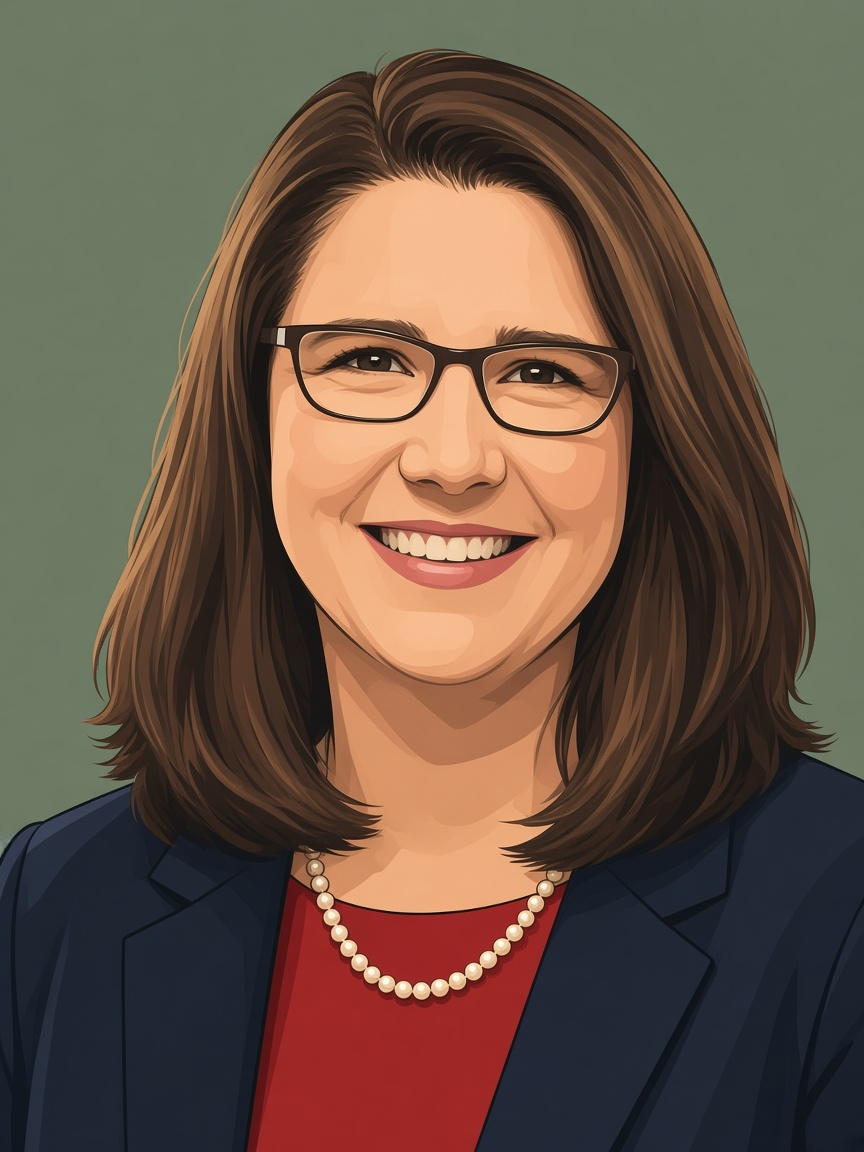
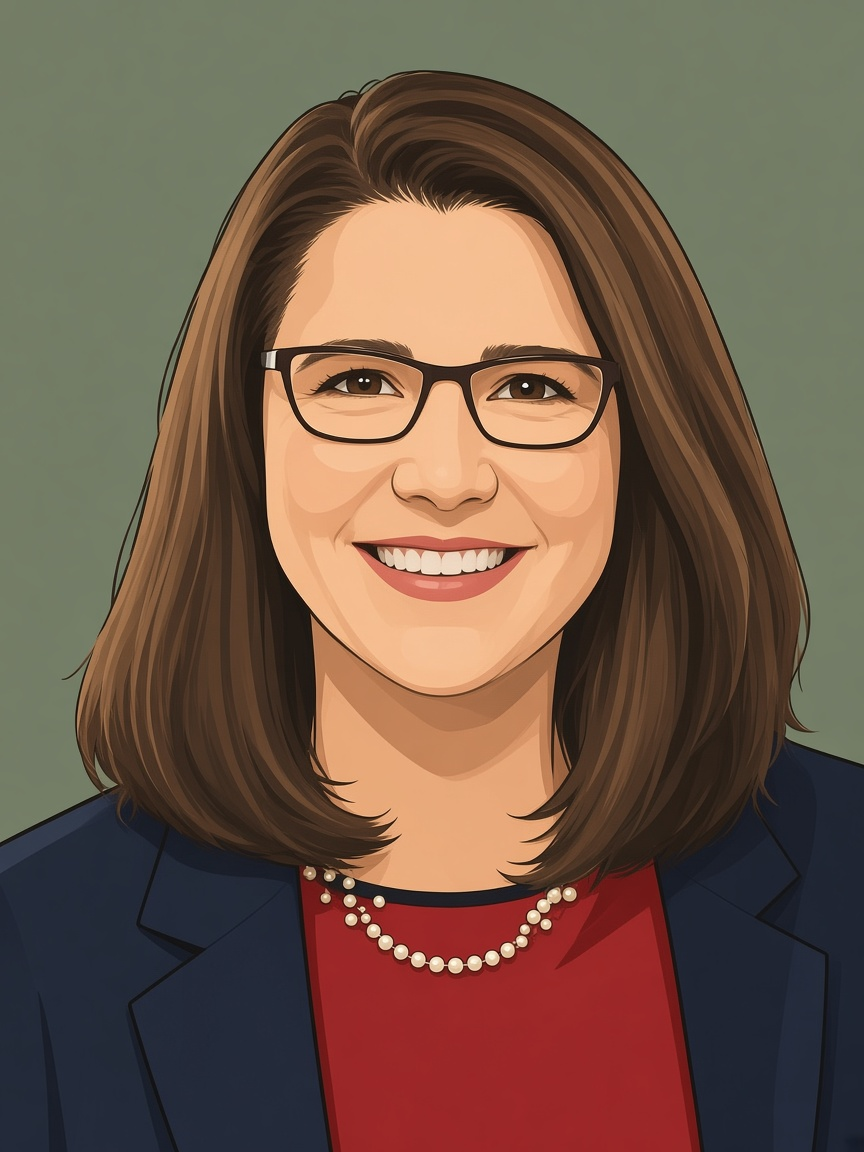
Thin Sarah Kavanagh's portrait lines to match the Roland illustration.

diff --git a/class-onsite.html b/class-onsite.html
@@ -2,7 +2,7 @@
 <html lang="en">
 <head>
   <meta charset="utf-8">
-  <script src="roster-data.js?v=7"></script>
+  <script src="roster-data.js?v=8"></script>
   <script>if(new URLSearchParams(location.search).get("p")&&new URLSearchParams(location.search).get("p")!=="gunther-roland")document.documentElement.classList.add("prof-pending");</script>
   <style>html.prof-pending body{visibility:hidden}</style>
 

diff --git a/class-recorded.html b/class-recorded.html
@@ -2,7 +2,7 @@
 <html lang="en">
 <head>
   <meta charset="utf-8">
-  <script src="roster-data.js?v=7"></script>
+  <script src="roster-data.js?v=8"></script>
   <script>if(new URLSearchParams(location.search).get("p")&&new URLSearchParams(location.search).get("p")!=="gunther-roland")document.documentElement.classList.add("prof-pending");</script>
   <style>html.prof-pending body{visibility:hidden}</style>
 

diff --git a/class.html b/class.html
@@ -2,7 +2,7 @@
 <html lang="en">
 <head>
   <meta charset="utf-8">
-  <script src="roster-data.js?v=7"></script>
+  <script src="roster-data.js?v=8"></script>
   <script>if(new URLSearchParams(location.search).get("p")&&new URLSearchParams(location.search).get("p")!=="gunther-roland")document.documentElement.classList.add("prof-pending");</script>
   <style>html.prof-pending body{visibility:hidden}</style>
 

diff --git a/index.html b/index.html
@@ -2,7 +2,7 @@
 <html lang="en">
 <head>
   <meta charset="utf-8">
-  <script src="roster-data.js?v=7"></script>
+  <script src="roster-data.js?v=8"></script>
   <script>if(new URLSearchParams(location.search).get("p")&&new URLSearchParams(location.search).get("p")!=="gunther-roland")document.documentElement.classList.add("prof-pending");</script>
   <style>html.prof-pending body{visibility:hidden}</style>
 

diff --git a/research.html b/research.html
@@ -2,7 +2,7 @@
 <html lang="en">
 <head>
   <meta charset="utf-8">
-  <script src="roster-data.js?v=7"></script>
+  <script src="roster-data.js?v=8"></script>
   <script>if(new URLSearchParams(location.search).get("p")&&new URLSearchParams(location.search).get("p")!=="gunther-roland")document.documentElement.classList.add("prof-pending");</script>
   <style>html.prof-pending body{visibility:hidden}</style>
 

diff --git a/roster-data.js b/roster-data.js
@@ -281,7 +281,7 @@ window.LECTURE_ROSTER = [
       }
     ],
     "joinCopy": "Work with Sarah Kavanagh on Education policy, Educational equity, Teacher education.",
-    "photo": "assets/portraits/sarah-kavanagh.jpg?v=4",
+    "photo": "assets/portraits/sarah-kavanagh.jpg?v=5",
     "template": false
   },
   {
